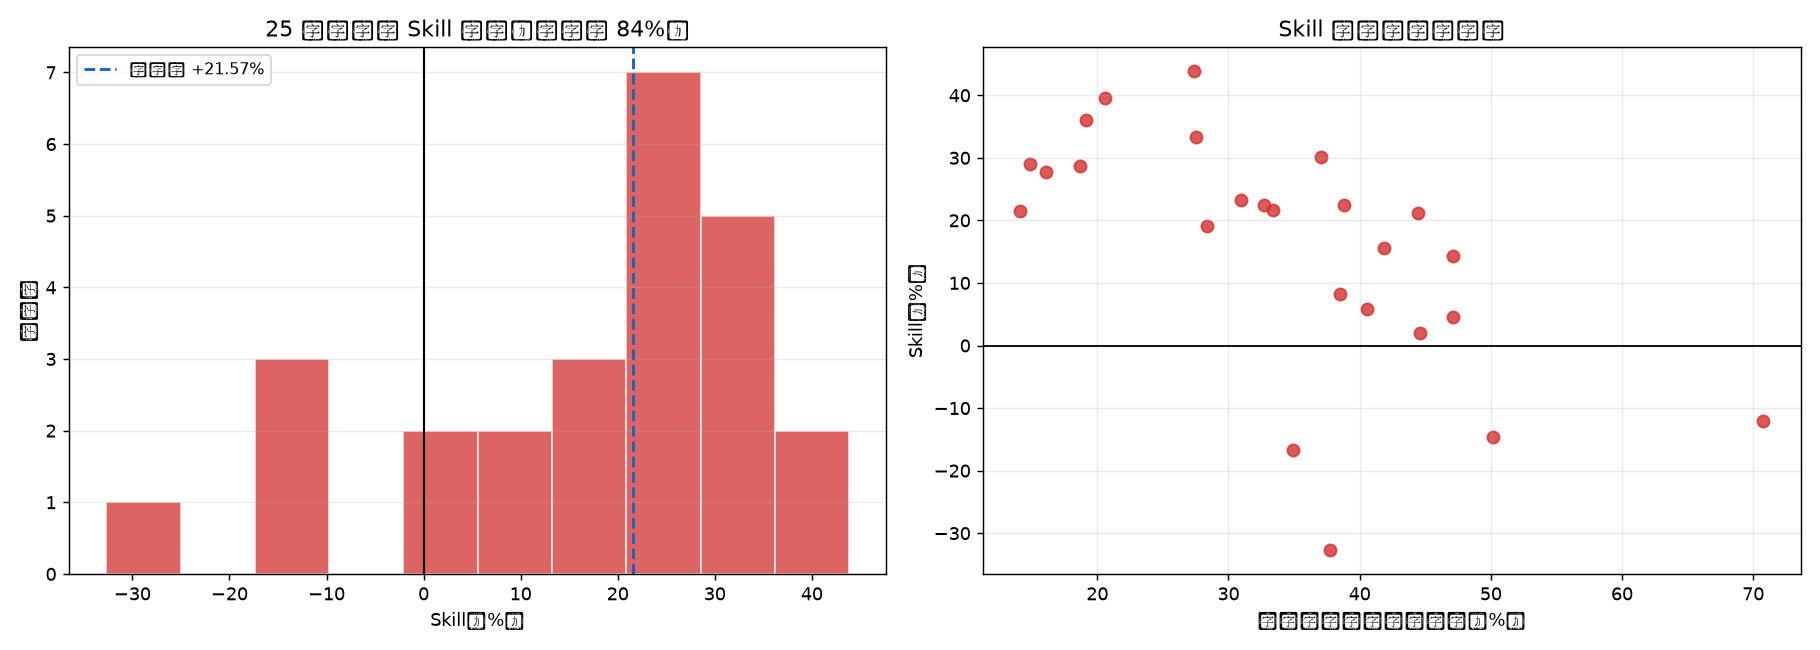
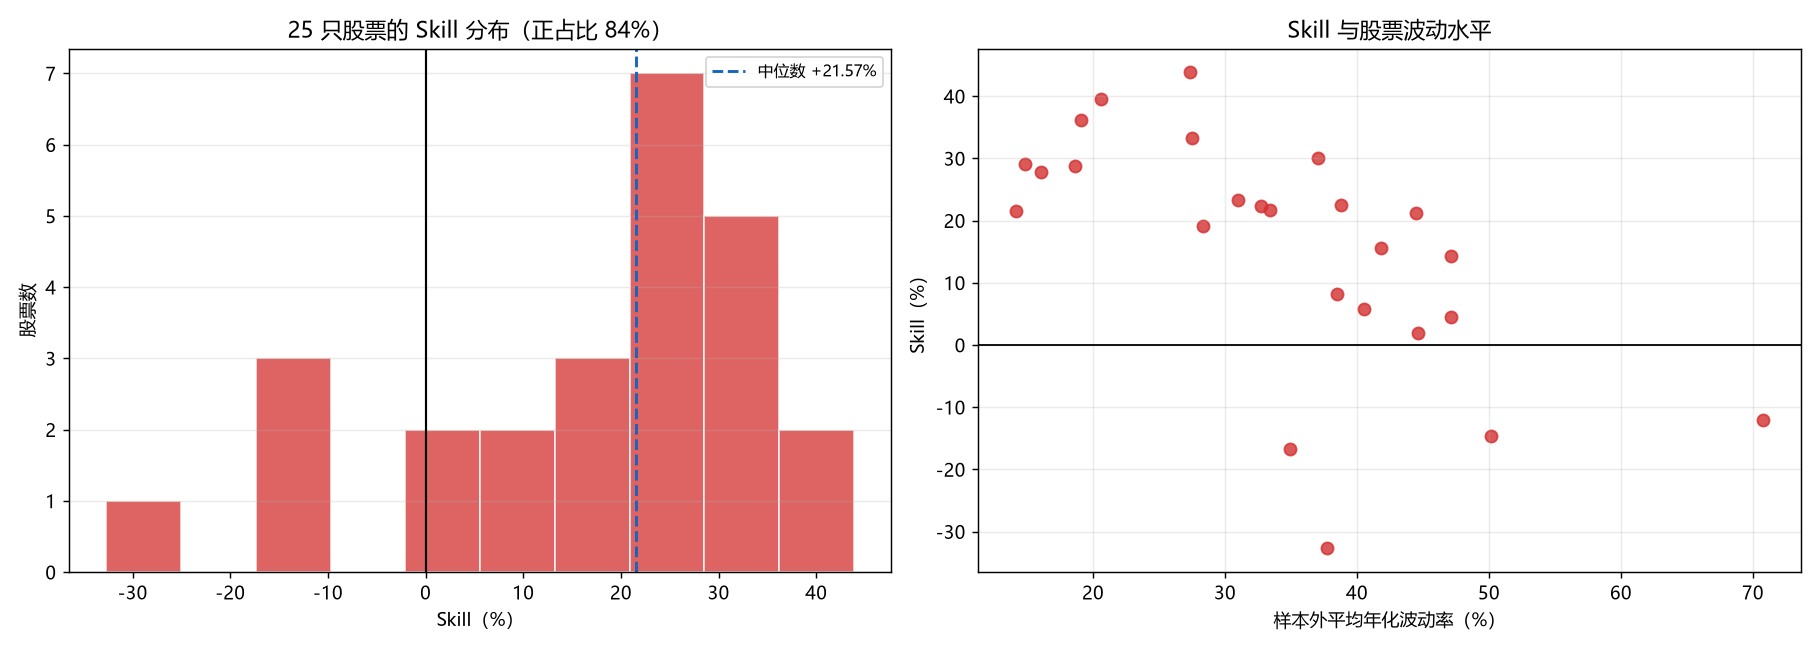
修复: 跨股票图表未设置中文字体（渲染成方框）

diff --git a/src/cross_stock_study.py b/src/cross_stock_study.py
@@ -270,6 +270,13 @@ def plot_study(per_stock: pd.DataFrame, summary: dict, out_dir: Path) -> list[Pa
     matplotlib.use("Agg")
     import matplotlib.pyplot as plt
 
+    # 必须设置中文字体，否则标题与坐标轴会渲染成方框（本次就踩过）
+    try:
+        from charts import setup_chinese_font
+        setup_chinese_font()
+    except Exception:  # noqa: BLE001
+        pass
+
     out_dir.mkdir(parents=True, exist_ok=True)
     paths = []
 
